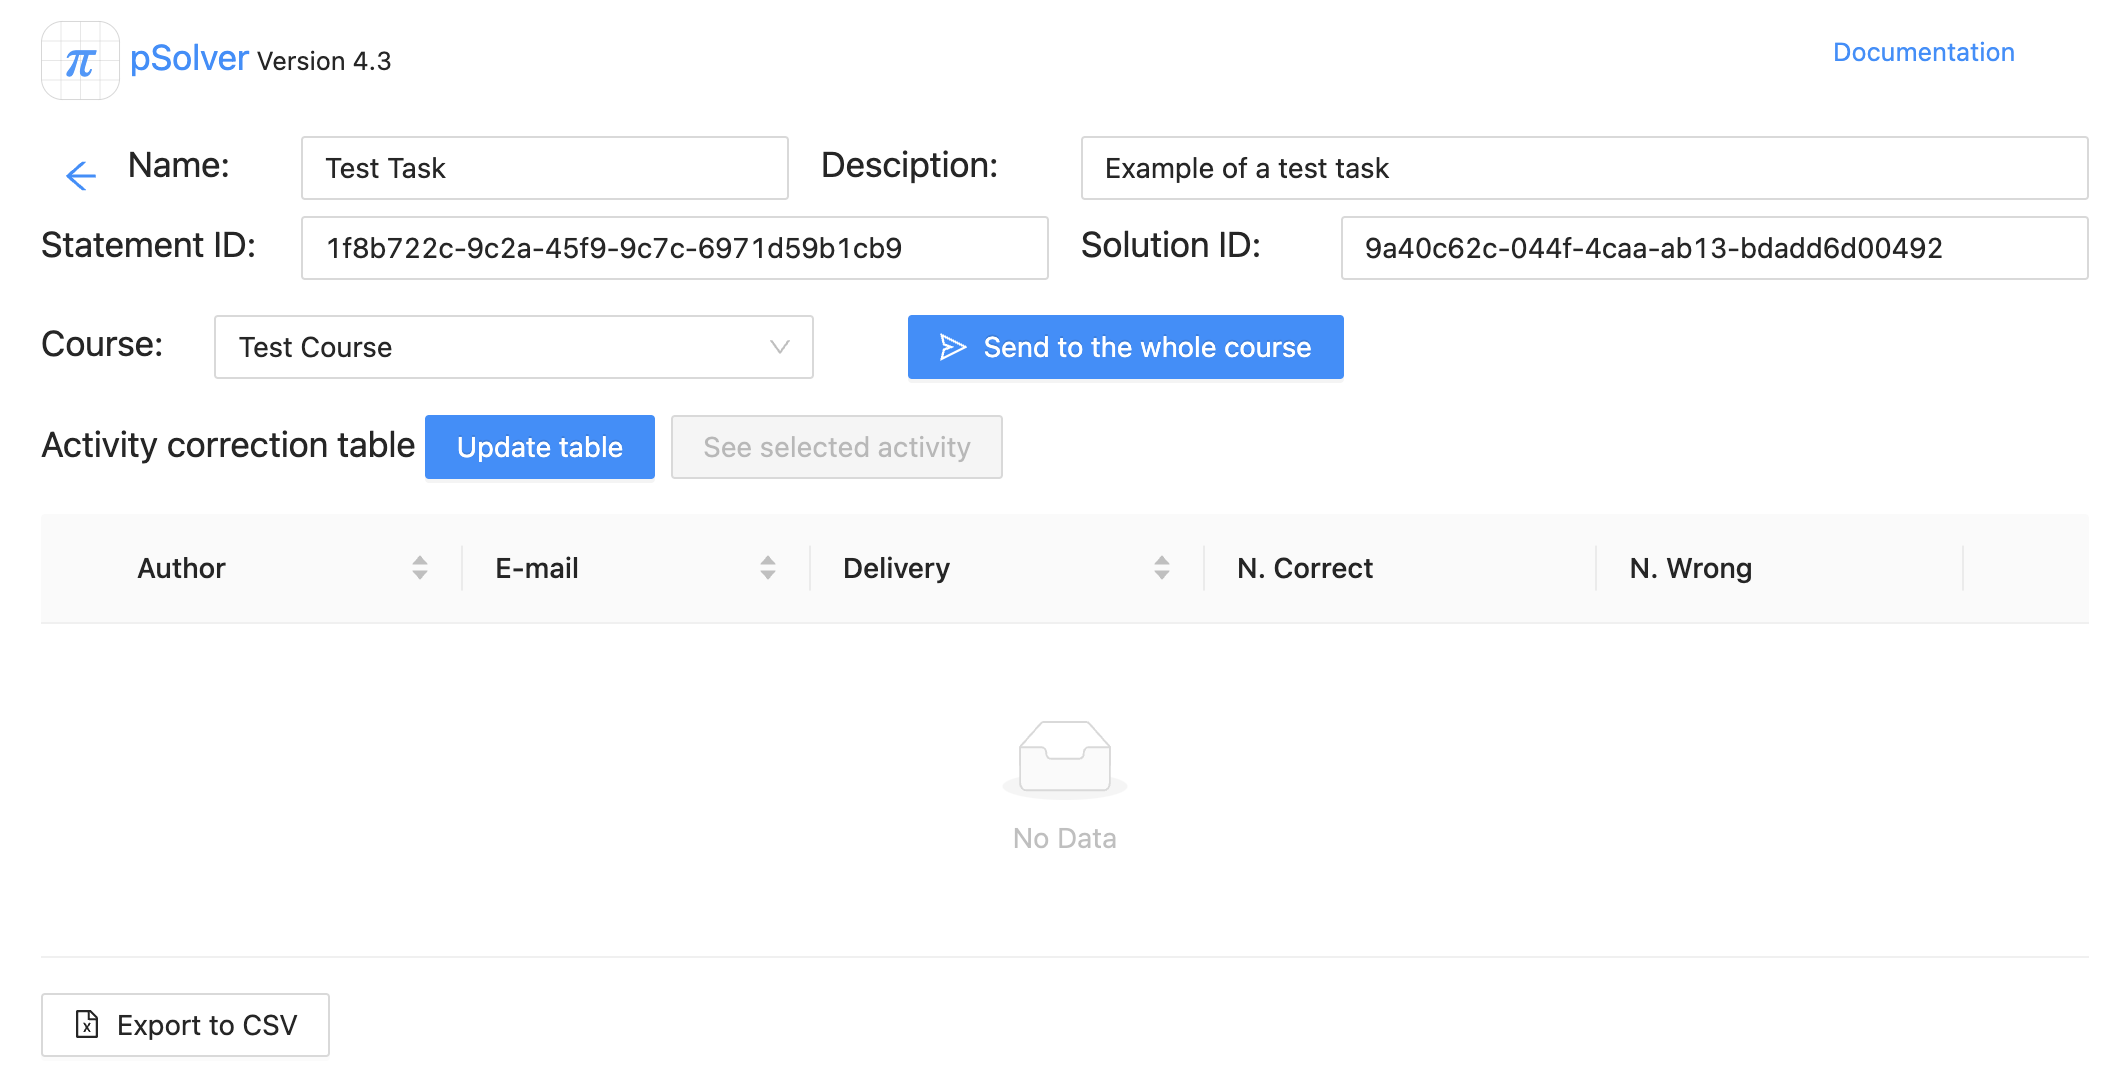
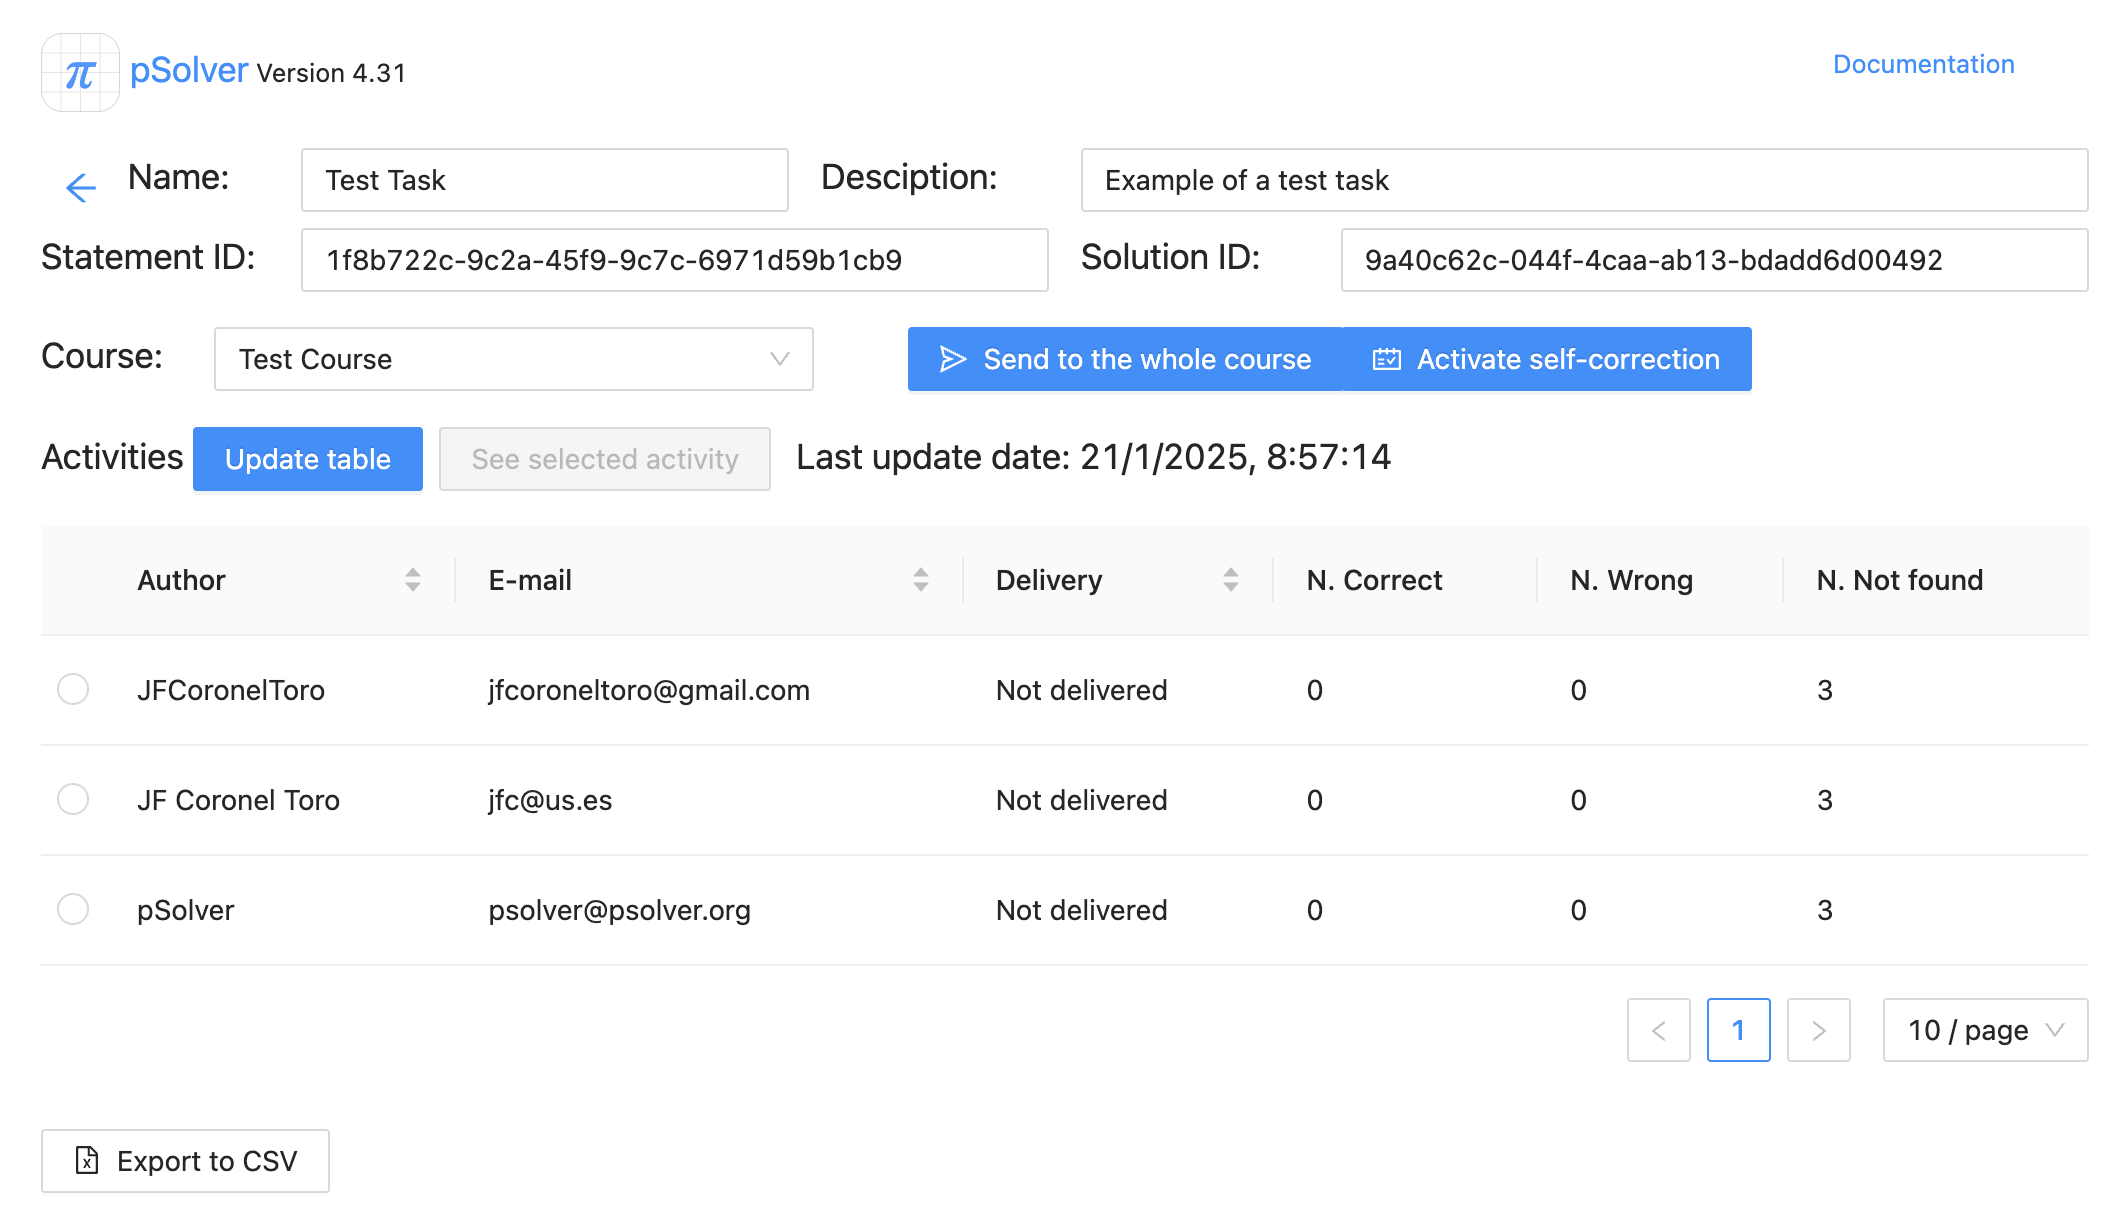
Versión 4.31 Final

diff --git a/docs/user manual.html b/docs/user manual.html
@@ -1279,8 +1279,12 @@
 				<img class="ui bordered centered image" src="img/lista cursos_en.png" width="960" alt="Courses list" />
 				<br />
 
-				<p>In the course list you can create and delete new courses. Courses are lists of students registered in
-					pSolver to whom we can send activities to perform. If we click the edit course button
+				<p>In the course list you can create, duplicate and delete courses. Courses are lists of students registered in
+					pSolver to whom we can send activities to perform. Using button <svg viewBox="64 64 896 896" focusable="false" data-icon="import" width="1em" height="1em" fill="currentColor" aria-hidden="true"><path d="M888.3 757.4h-53.8c-4.2 0-7.7 3.5-7.7 7.7v61.8H197.1V197.1h629.8v61.8c0 4.2 3.5 7.7 7.7 7.7h53.8c4.2 0 7.7-3.4 7.7-7.7V158.7c0-17-13.7-30.7-30.7-30.7H158.7c-17 0-30.7 13.7-30.7 30.7v706.6c0 17 13.7 30.7 30.7 30.7h706.6c17 0 30.7-13.7 30.7-30.7V765.1c0-4.3-3.5-7.7-7.7-7.7zM902 476H588v-76c0-6.7-7.8-10.5-13-6.3l-141.9 112a8 8 0 000 12.6l141.9 112c5.3 4.2 13 .4 13-6.3v-76h314c4.4 0 8-3.6 8-8v-56c0-4.4-3.6-8-8-8z"></path></svg>
+					we can load an external course that has been created by another teacher, 
+					this will allow us to set tasks on courses created by other teachers.
+				</p>	
+				<p>If we click the edit course button
 					<svg viewBox="64 64 896 896" focusable="false" data-icon="edit" width="1em" height="1em"
 						fill="currentColor" aria-hidden="true">
 						<path
@@ -1303,7 +1307,7 @@
 				<br />
 
 				<p>The teacher must then create the task that will be sent as an activity to the student. For this
-					purpose, he/she also has a list of tasks that can be created, deleted or edited.</p>
+					purpose, he/she also has a list of tasks that can be created, duplicated, deleted or edited.</p>
 
 				<img class="ui bordered centered image" src="img/lista tareas_en.png" width="960" alt="Tasks list" />
 				<br />
@@ -1312,7 +1316,8 @@
 				<p>By editing the assignment we can name it, give it a description, select the course to which it
 					belongs and set the ID of the problem to be used as a statement and the ID of the solution. With the
 					“Send to the whole course” button, an activity is created in the accounts of each of the course
-					members, copying the content of the problem “statement”. It is also possible for the student to
+					members, copying the content of the problem “statement”, the system checks if the student already
+					has that activity so as not to duplicate it. It is also possible for the student to
 					create the activity on his/her own, if we send him/her the task ID, using the button <svg
 						viewBox="64 64 896 896" focusable="false" data-icon="team" width="1em" height="1em"
 						fill="currentColor" aria-hidden="true">
@@ -1324,6 +1329,8 @@
 
 				<img class="ui bordered centered image" src="img/editor tareas_en.png" width="960" alt="Tasks editor" />
 				<br />
+				<p>Initially the activities do not include the possibility for the student to self-correct, 
+					but using the button "Activate self-correction" we can enable this possibility for all students in the activity table.</p>
 
 				<p>The activities to be performed by the students are actually problems that have the following
 					particularities:</p>
@@ -1356,7 +1363,7 @@
 				<p>If we go back to the task and click on the “Update table” button, the list of the activities
 					performed by the students and the correction of the main variables will appear, showing whether they
 					are correct, incorrect or have not been found. By selecting a specific activity with the check in
-					the first column and using the button “View selected activity” we can see the student's activity.
+					the first column and using the button “See selected activity” we can see the student's activity.
 					Using the “Export to CSV” button below we download a file containing the table in a format
 					compatible with any spreadsheet.
 				</p>
